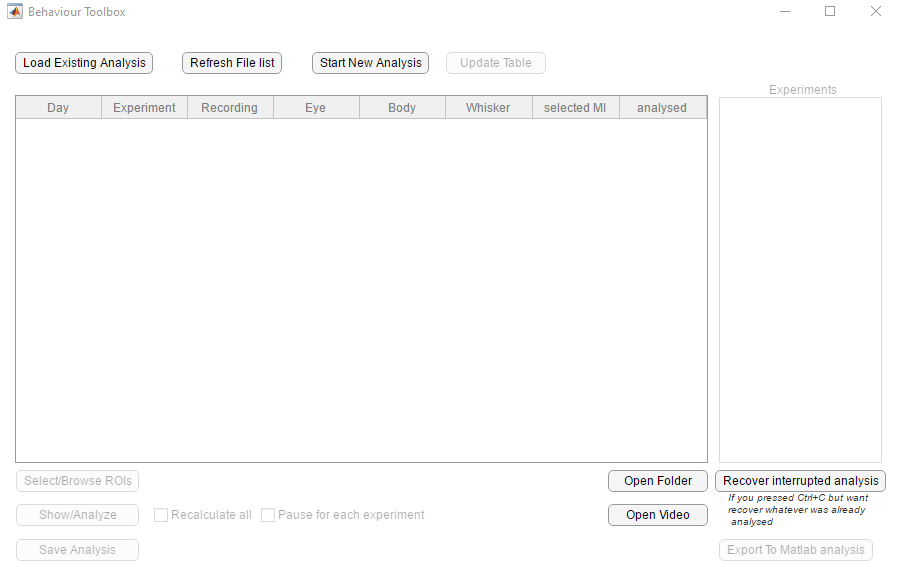
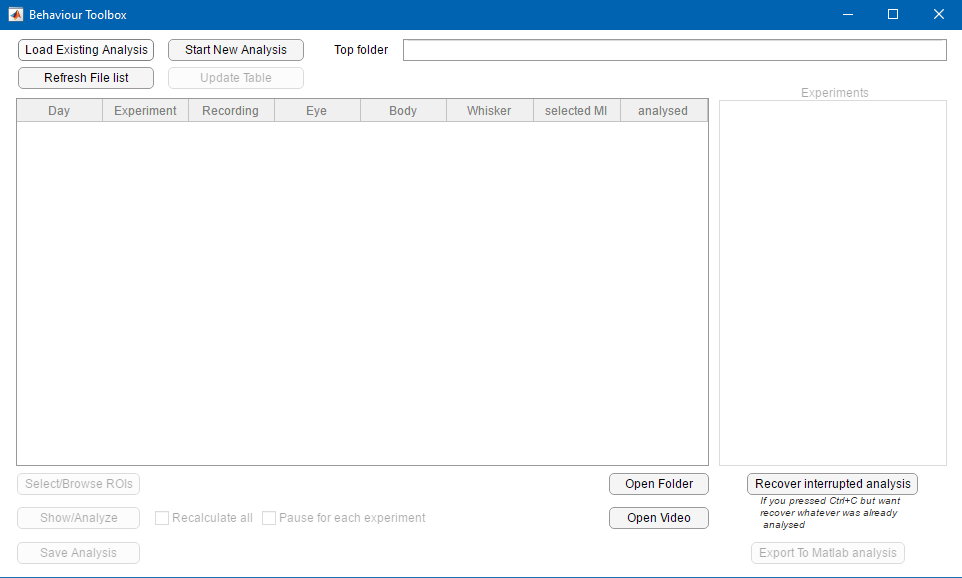
Adjusted GUI to detect video folder and accept a backup as an input

Changed region(s): [[0.0, 0.0, 1.0, 0.2099], [0.0, 0.7795, 1.0, 1.0]]

diff --git a/docs/Documentation.md b/docs/Documentation.md
@@ -97,11 +97,15 @@ Initialise the toolbox
 
 Start the GUI by typing
 
-`Behaviour_analysis();`
+```matlab
+Behaviour_analysis();
+```
 
 This will open the GUI.
 
 ![](./media/image1.png)
+
+> If you want to resume from a previous analysis, see the [backup section](#Manual-Reload)
 
 Start a new analysis:
 ---------------------
@@ -127,12 +131,25 @@ Manual backup
 As some steps can be extremely time consuming, it is recommended to do some regular backup of your analysis database. To do so, click on the [Save Analysis] Button.
 
 ![](./media/image3.png)
+
 An automated filename with a timestamp is proposed, but you can edit it.
 
 Manual Reload
 -------------
 
-If you resume a previous analysis, or if something went wrong and you want to return to a previous stage, you can use the [Load Existing Analysis] button and reload one of the '.mat' file used for backup.![](./media/image4.png)
+If you resume a previous analysis, or if something went wrong and you want to return to a previous stage, you can use the [Load Existing Analysis] button and reload one of the '.mat' file used for backup.
+
+![](./media/image4.png)
+
+If you want to directly start the GUI using a previous backup, use:
+
+```matlab
+Behaviour_analysis('saved_analysis 19-May-2020 16_47_15.mat')
+```
+
+If the Top folder field is red, it indicates that the video_path used last time has changed, either because you moved your videos or because you changed computer / Hard drive. You can edit the field if you need to extract/position new ROIs data. 
+
+![image-20200520185839674](media/image-20200520185839674.png)
 
 Recover from interrupted analysis
 ---------------------------------
@@ -210,7 +227,7 @@ Quick Selection
 
 ![](./media/image12.png)
 
-Preset names are displayed on the left. The list is extracted from the propertiy `behaviour_GUI.Experiment_set.default_tags`. You can edit this list to add/remove quick tags.
+Preset names are displayed on the left. The list is extracted from the property `behaviour_GUI.Experiment_set.default_tags`. You can edit this list to add/remove quick tags.
 
 Manual Addition
 ---------------
@@ -301,19 +318,19 @@ To correct for camera displacement, you must first specify ROI location in the c
 
 You can use the slider at the bottom of the figure to move across the recordings. The first position of the slider corresponds to the consensus frame, while the following ones correspond to each video of the recording.
 
-![](media/Documentation/image28-1587374845677.png)
+![](media/image28-1587374845677.png)
 
 For example, the ROIs were selected correctly for the first recording :
 
-![](media/Documentation/image29-1587374845678.png)
+![](media/image29-1587374845678.png)
 
 However, a later video displays an offset:
 
-![](media/Documentation/image30-1587374845678.png)
+![](media/image30-1587374845678.png)
 
 You can drag the ROIs (which will move together) to the correct location.
 
-![](media/Documentation/image31-1587374845678.png)
+![](media/image31-1587374845678.png)
 
 Note: The offset is automatically applied to all the following recordings, although you can set a second different offset on a later video (which will, in turn, be applied to all the subsequent video. See example below. In **bold**, we indicate the only video that actually needed a manual intervention.
 
@@ -325,7 +342,7 @@ Note: The offset is automatically applied to all the following recordings, altho
 
 You can clear all offset (if you are on the reference frame), or all offsets starting from the current recording (if you are on any other frame than the reference one) by clicking on the [Clear Offsets] button
 
-![image-20200430102810160](media/Documentation/image-20200430102810160.png)
+![image-20200430102810160](media/image-20200430102810160.png)
 
 
 
@@ -337,7 +354,7 @@ Display MIs
 
 When selecting the ROIs, you can have a preview of the signal obtained from the current ROIs by clicking on the [Measure MIs] button
 
-![image-20200430102958106](media/Documentation/image-20200430102958106.png)
+![image-20200430102958106](media/image-20200430102958106.png)
 
 Note than Motion indexes are not saved to the database when using preview. They will be extracted only when clicking on the [Show/Analyze] button.
 
@@ -356,7 +373,7 @@ If you extracted multiple ROIs, you will see multiple subplot.
 > Note : if you want to pause the display between each Camera, tick the [Pause for each experiment] checkbox
 >
 
-![image-20200430101637948](media/Documentation/image-20200430101637948.png)
+![image-20200430101637948](media/image-20200430101637948.png)
 
 Videos that were not extracted will still be analysed, so it is recommended to use this option only when all MIs were extracted, otherwise you may have to wait a long time when hitting an non-extracted recording.
 
